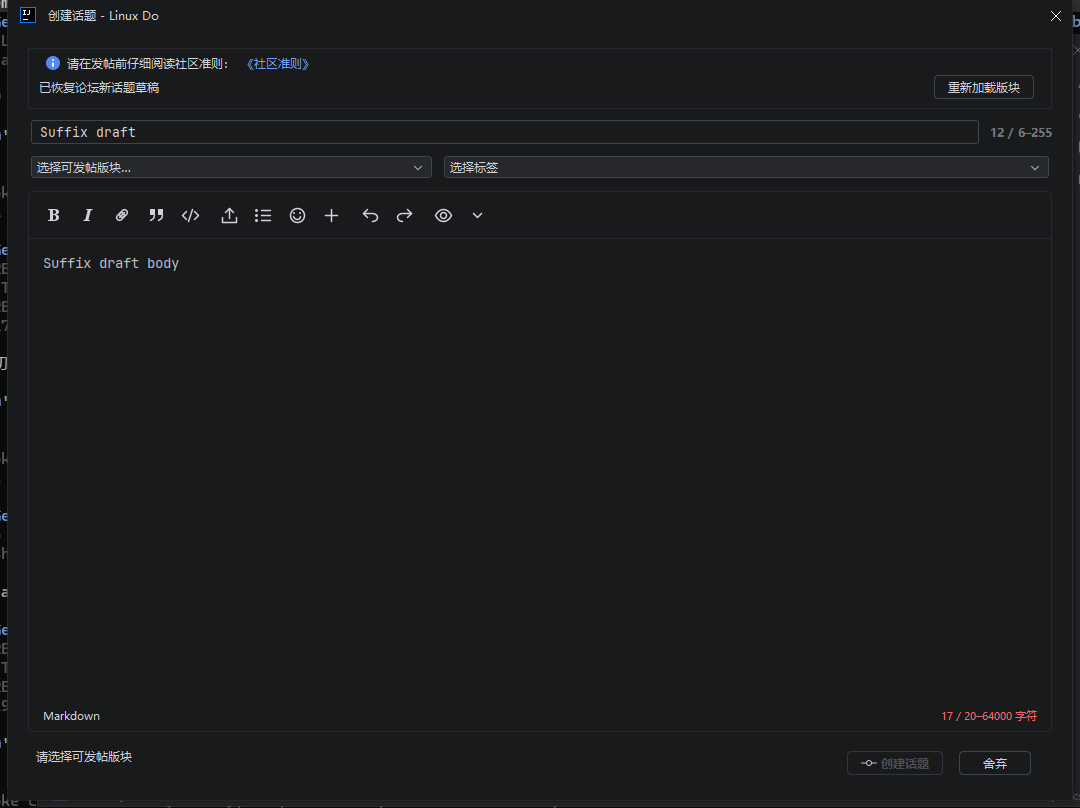
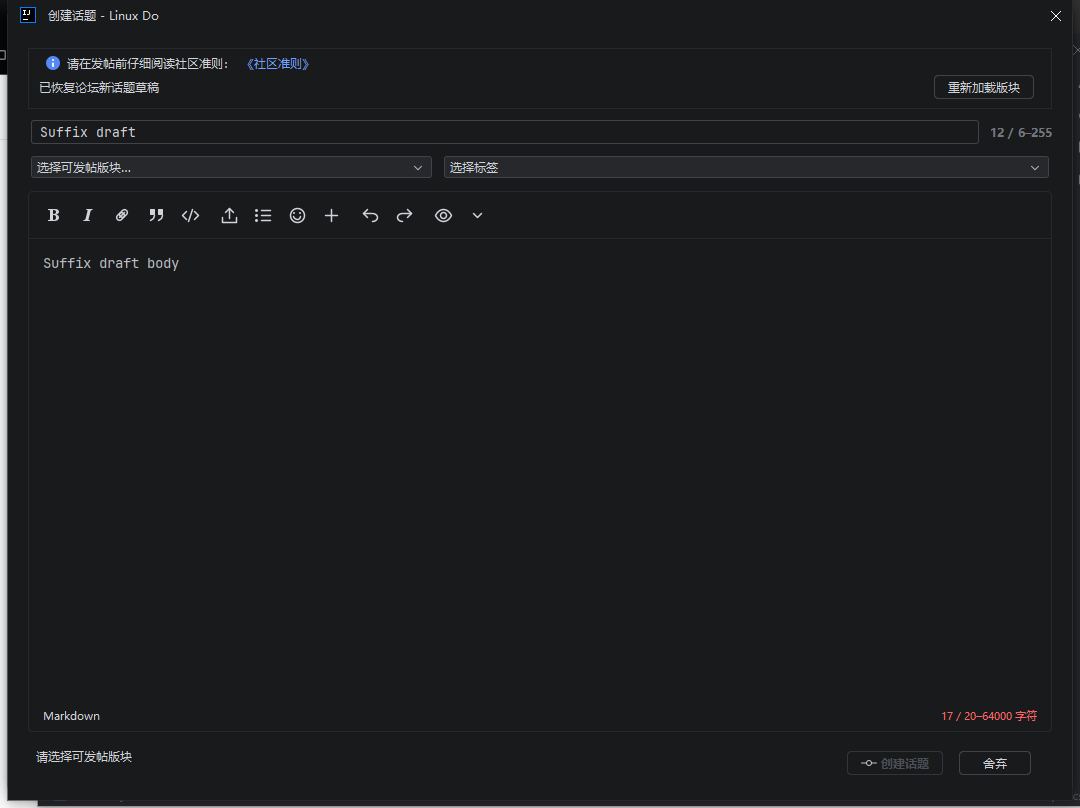
Verify native IME and require explicit post edit saving

Changed region(s): [[0.0, 0.0928, 1.0, 1.0], [0.9778, 0.0, 1.0, 0.0309], [0.0, 0.0, 0.0306, 0.0309]]

diff --git a/src/main/kotlin/com/lgguan/linuxdo/plugin/ui/dialog/EditPostDialog.kt b/src/main/kotlin/com/lgguan/linuxdo/plugin/ui/dialog/EditPostDialog.kt
@@ -39,6 +39,8 @@ internal class EditPostDialog(
     init {
         title = "编辑帖子 #${initial.postNumber}"
         setOKButtonText("保存编辑")
+        // Enter belongs to the editor and native IME; saving requires activating the button.
+        okAction.putValue(DEFAULT_ACTION, null)
         init()
         editor.resetUndo()
         ComposerAppearance.followTheme(disposable, contentPanel, text, editorPanel) { preview.refreshTheme() }

diff --git a/tools/MarkdownEditorIdeAcceptance.java b/tools/MarkdownEditorIdeAcceptance.java
@@ -219,7 +219,8 @@ public final class MarkdownEditorIdeAcceptance implements ApplicationStarter {
 
   private static void physicalKeyboard(Object dialog,String label)throws Exception {
     JTextArea text=text(dialog);Window window=((com.intellij.openapi.ui.DialogWrapper)dialog).getWindow();
-    edt(()->{window.setAlwaysOnTop(true);window.toFront();window.requestFocus();text.setText("- item");text.setCaretPosition(6);text.requestFocusInWindow();return null;});
+    edt(()->{window.setAlwaysOnTop(true);window.toFront();window.requestFocus();text.getInputContext().endComposition();text.getInputContext().selectInputMethod(Locale.US);text.enableInputMethods(false);text.setText("- item");text.setCaretPosition(6);text.requestFocusInWindow();return null;});
+    click(text);edt(()->{text.setCaretPosition(6);return null;});
     await("actual editor focus",text::hasFocus);Robot robot=new Robot();robot.setAutoDelay(60);
     robot.keyPress(java.awt.event.KeyEvent.VK_TAB);robot.keyRelease(java.awt.event.KeyEvent.VK_TAB);robot.waitForIdle();
     check(label+"_PHYSICAL_TAB_INDENT",edt(()->text.getText().equals("  - item")&&text.hasFocus()));
@@ -228,6 +229,7 @@ public final class MarkdownEditorIdeAcceptance implements ApplicationStarter {
     edt(()->{text.setText("plain");window.toFront();window.requestFocus();return null;});click(text);await("ordinary editor focus",text::hasFocus);
     robot.keyPress(java.awt.event.KeyEvent.VK_TAB);robot.keyRelease(java.awt.event.KeyEvent.VK_TAB);robot.waitForIdle();await("plain tab leaves editor",()->!text.hasFocus());
     check(label+"_ORDINARY_TAB_NAVIGATION",edt(()->text.getText().equals("plain")));
+    edt(()->{text.enableInputMethods(true);return null;});
   }
   private static void linkEditCheck(Object dialog,String label)throws Exception {
     JTextArea text=text(dialog);edt(()->{text.setText("[label](https://example.com/old)");text.setCaretPosition(3);return null;});
@@ -236,6 +238,47 @@ public final class MarkdownEditorIdeAcceptance implements ApplicationStarter {
     check(label+"_LINK_BACKFILLED",edt(()->components(window).stream().anyMatch(c->c instanceof JTextField&&"composer-link-url".equals(c.getName())&&((JTextField)c).getText().equals("https://example.com/old"))));
     edt(()->{for(Component c:components(window))if(c instanceof JTextField f&&"composer-link-url".equals(c.getName()))f.setText("https://example.com/new");components(window).stream().filter(c->c instanceof JButton&&"应用".equals(((JButton)c).getText())).map(c->(JButton)c).findFirst().orElseThrow().doClick();return null;});
     await("existing link applied",()->!window.isShowing());check(label+"_LINK_REPLACED_WITHOUT_NESTING",edt(()->text.getText().equals("[label](<https://example.com/new>)")));
+  }
+  private static void systemIme(Object dialog,String label)throws Exception {
+    JTextArea text=text(dialog);Window window=((com.intellij.openapi.ui.DialogWrapper)dialog).getWindow();
+    java.awt.im.InputContext context=edt(text::getInputContext);Locale previous=edt(context::getLocale);
+    AtomicInteger events=new AtomicInteger();int writesBefore=fixture.writes.get();
+    java.awt.event.InputMethodListener observer=new java.awt.event.InputMethodListener(){
+      public void inputMethodTextChanged(java.awt.event.InputMethodEvent e){events.incrementAndGet();}
+      public void caretPositionChanged(java.awt.event.InputMethodEvent e){}
+    };
+    edt(()->{text.addInputMethodListener(observer);window.setAlwaysOnTop(true);window.toFront();text.setText("- ");text.setCaretPosition(2);text.requestFocusInWindow();return null;});
+    await("system IME editor focus",text::hasFocus);Robot robot=new Robot();robot.setAutoDelay(100);
+    try {
+      check(label+"_SYSTEM_CHINESE_IME_SELECTED",edt(()->context.selectInputMethod(Locale.SIMPLIFIED_CHINESE)));
+      for(int attempt=0;attempt<2;attempt++){
+        if(attempt>0){edt(()->{context.endComposition();text.setText("- ");text.setCaretPosition(2);return null;});robot.keyPress(java.awt.event.KeyEvent.VK_CONTROL);robot.keyPress(java.awt.event.KeyEvent.VK_SPACE);robot.keyRelease(java.awt.event.KeyEvent.VK_SPACE);robot.keyRelease(java.awt.event.KeyEvent.VK_CONTROL);}
+        for(int code:new int[]{java.awt.event.KeyEvent.VK_N,java.awt.event.KeyEvent.VK_I,java.awt.event.KeyEvent.VK_H,java.awt.event.KeyEvent.VK_A,java.awt.event.KeyEvent.VK_O}){robot.keyPress(code);robot.keyRelease(code);}
+        robot.waitForIdle();Thread.sleep(300);
+        if(edt(()->(Boolean)field(support(dialog),"composing")))break;
+      }
+      check(label+"_SYSTEM_CANDIDATE_COMPOSITION",events.get()>0&&edt(()->(Boolean)field(support(dialog),"composing")));
+      Rectangle bounds=edt(window::getBounds);ImageIO.write(robot.createScreenCapture(bounds),"png",output.resolve("editor-"+label.toLowerCase()+"-ime.png").toFile());
+      robot.keyPress(java.awt.event.KeyEvent.VK_ENTER);robot.keyRelease(java.awt.event.KeyEvent.VK_ENTER);robot.waitForIdle();
+      await("system candidate confirmed",()->!(Boolean)field(support(dialog),"composing"));
+      check(label+"_SYSTEM_ENTER_NO_LIST_CONTINUATION",edt(()->text.getText().startsWith("- ")&&!text.getText().contains("\n")&&text.getText().length()>2));
+      check(label+"_SYSTEM_ENTER_NO_SUBMIT",edt(window::isShowing)&&fixture.writes.get()==writesBefore);
+      // Let the native WM_IME_ENDCOMPOSITION finish before starting a second candidate sequence.
+      Thread.sleep(300);
+      for(int attempt=0;attempt<2;attempt++){
+        edt(()->{context.endComposition();window.toFront();text.setText("- ");text.setCaretPosition(2);text.requestFocusInWindow();return null;});
+        await("system IME focus before Tab",text::hasFocus);
+        if(attempt>0){robot.keyPress(java.awt.event.KeyEvent.VK_CONTROL);robot.keyPress(java.awt.event.KeyEvent.VK_SPACE);robot.keyRelease(java.awt.event.KeyEvent.VK_SPACE);robot.keyRelease(java.awt.event.KeyEvent.VK_CONTROL);}
+        for(int code:new int[]{java.awt.event.KeyEvent.VK_N,java.awt.event.KeyEvent.VK_I,java.awt.event.KeyEvent.VK_H,java.awt.event.KeyEvent.VK_A,java.awt.event.KeyEvent.VK_O}){robot.keyPress(code);robot.keyRelease(code);}robot.waitForIdle();Thread.sleep(300);
+        if(edt(()->(Boolean)field(support(dialog),"composing")))break;
+      }
+      check(label+"_SYSTEM_CANDIDATE_BEFORE_TAB",edt(()->(Boolean)field(support(dialog),"composing")));
+      robot.keyPress(java.awt.event.KeyEvent.VK_TAB);robot.keyRelease(java.awt.event.KeyEvent.VK_TAB);robot.waitForIdle();
+      check(label+"_SYSTEM_TAB_NO_LIST_INDENT",edt(()->text.getText().startsWith("- ")));
+      check(label+"_SYSTEM_TAB_NO_SUBMIT",edt(window::isShowing)&&fixture.writes.get()==writesBefore);
+    } finally {
+      edt(()->{context.endComposition();text.removeInputMethodListener(observer);if(previous!=null)context.selectInputMethod(previous);return null;});
+    }
   }
   private static void dialogShot(Object dialog,String label)throws Exception {
     Window window=((com.intellij.openapi.ui.DialogWrapper)dialog).getWindow();
@@ -263,7 +306,9 @@ public final class MarkdownEditorIdeAcceptance implements ApplicationStarter {
     edt(()->{var event=new java.awt.event.InputMethodEvent(text,java.awt.event.InputMethodEvent.INPUT_METHOD_TEXT_CHANGED,null,0,null,null);for(var l:text.getInputMethodListeners())l.inputMethodTextChanged(event);text.setText(original);text.select(0,original.length());return null;});
     edt(()->{Method reset=support.getClass().getDeclaredMethod("resetUndo");reset.invoke(support);return null;});
     insertChecks(dialog);
-    physicalKeyboard(dialog,label);linkEditCheck(dialog,label);
+    physicalKeyboard(dialog,label);
+    if(Boolean.getBoolean("linuxdo.editor.system.ime"))systemIme(dialog,label);
+    linkEditCheck(dialog,label);
     edt(()->{text.setText(original);text.select(0,original.length());return null;});
     var colors=com.intellij.openapi.editor.colors.EditorColorsManager.getInstance();var previous=edt(colors::getGlobalScheme);
     var light=Arrays.stream(colors.getAllSchemes()).filter(c->!com.intellij.ui.ColorUtil.isDark(c.getDefaultBackground())).findFirst().orElseThrow();
@@ -313,7 +358,7 @@ public final class MarkdownEditorIdeAcceptance implements ApplicationStarter {
     SwingUtilities.invokeLater(()->WriteIntentReadAction.run((Runnable)()->{try{Method m=editClass.getDeclaredMethod("doOKAction");m.setAccessible(true);m.invoke(edit);}catch(Exception e){throw new RuntimeException(e);}}));
     await("edit saved",()->((com.intellij.openapi.ui.DialogWrapper)edit).isDisposed());
     check("EDIT_EXPLICIT_SAVE_PRESERVES_BASELINE_AND_REASON",fixture.writes.get()==editBefore+1&&fixture.editInput.get("original_text").getAsString().equals("Existing post body")&&fixture.editInput.get("edit_reason").getAsString().equals("fixture reason"));
-    report.println("INPUT_METHOD_CHECK=synthetic composition events delivered to actual IDEA editor; OS candidate UI not automated");
+    report.println(Boolean.getBoolean("linuxdo.editor.system.ime")?"INPUT_METHOD_CHECK=installed Windows Chinese IME; physical candidate Enter and Tab in three production dialogs":"INPUT_METHOD_CHECK=synthetic composition events delivered to actual IDEA editor; OS candidate UI not automated");
     report.println("REAL_FORUM_WRITES=0");report.println("SIMULATED_WRITES="+fixture.writes.get());
   }
 }

diff --git a/tools/smoke.py b/tools/smoke.py
@@ -143,6 +143,8 @@ def host(args):
         vm_args.append("-Dlinuxdo.reader.only=true")
     if getattr(args, "composer_only", False):
         vm_args.append("-Dlinuxdo.composer.only=true")
+    if getattr(args, "system_ime", False):
+        vm_args.append("-Dlinuxdo.editor.system.ime=true")
     if getattr(args, "draft_bridge", None):
         vm_args.append(f"-Dlinuxdo.draft.bridge={Path(args.draft_bridge).resolve()}")
     if args.native:
@@ -177,6 +179,7 @@ def main():
             sub.add_argument("--output-base", help="Short directory for isolated IDE runs, avoiding Windows path limits")
             sub.add_argument("--native", action="store_true")
         if mode == "ui":
+            sub.add_argument("--system-ime", action="store_true", help="Also verify installed Chinese input method with physical candidate-confirmation keys")
             sub.add_argument("--composer-only", action="store_true", help="Run existing browsing/composer assertions separately from reader focus checks")
             sub.add_argument("--editor-only", action="store_true", help="Exercise Markdown helpers in three production dialogs and two IDEA projects using memory HTTP")
             sub.add_argument("--personal-only", action="store_true", help="Exercise personal content in two real IDEA project frames with memory-only HTTP")

diff --git a/docs/markdown-editor-verification.md b/docs/markdown-editor-verification.md
@@ -24,7 +24,7 @@
 | 检查 | 结果与范围 |
 | --- | --- |
 | 全量测试 | 420 项通过，0 失败、0 错误、0 跳过；含本期 50 项纯文本测试与模拟传输 |
-| 新增编辑辅助原生验收 | 两个真实 IDEA 项目窗口，三类生产编辑器，70 项通过；模拟写入 3 次，真实写入 0 |
+| 新增编辑辅助原生验收 | 两个真实 IDEA 项目窗口，三类生产编辑器，91 项通过；模拟写入 3 次，真实写入 0 |
 | 原有浏览／编辑器回归 | 独立 IDEA 进程 130 项通过，涵盖上传、草稿冲突、发布结果不明及账号切换 |
 | 原有正文回归 | 独立 IDEA 进程 77 项通过，涵盖导航、通知跳转、读取计时、缩放及浏览器恢复 |
 | 个人入口原生回归 | 两个真实项目窗口 35 项通过，真实及模拟写入均为 0 |
@@ -37,7 +37,7 @@
 
 `MarkdownEditorIdeAcceptance.java` 在两个真实 Windows IDEA 项目窗口中运行三个生产编辑器，使用实际键盘检查 Tab 缩进和焦点导航，验证对话框、撤销、主题、窄窗口与模拟保存。HTTP 拦截器在进入网络前返回内存响应；所有模拟写入只存在于进程内，不调用真实论坛。
 
-输入法检查向真实 IDEA 编辑组件发送组合输入事件，验证候选阶段的辅助门禁；没有自动操作系统输入法候选窗口。macOS/Linux 原生验收仍待后续执行。
+输入法检查同时覆盖合成组合事件及 Windows 已安装的中文输入法：实际输入候选内容，按 Enter 确认和按 Tab，验证不会误续行、缩进或提交，三个窗口均保持打开。候选截图：[新话题](images/editor-helper-topic-ime.png)、[回复](images/editor-helper-reply-ime.png)、[编辑帖子](images/editor-helper-edit-ime.png)。截图期间不改变焦点。编辑帖子取消默认 Enter 保存，只有主动激活“保存编辑”按钮才提交。macOS/Linux 原生验收仍待后续执行。
 
 示例界面：[新话题](images/editor-helper-topic.png)、[回复](images/editor-helper-reply.png)、[编辑帖子](images/editor-helper-edit.png)。截图仅使用内存示例内容。
 
@@ -52,7 +52,7 @@
 ```powershell
 ./gradlew.bat test -PdesktopTests=true buildPlugin verifyPlugin --offline
 ./gradlew.bat runPluginVerifier '-PverifierIdePath=C:/Users/lgguan/AppData/Local/Programs/IntelliJ IDEA Ultimate' -PverifierOffline=true --offline
-python tools/smoke.py ui --ide-home 'C:/Users/lgguan/AppData/Local/Programs/IntelliJ IDEA Ultimate' --plugin-zip build/distributions/linuxdo-jetbrains-plugin-1.0.2.zip --editor-only --output-base D:/ld-editor-smoke
+python tools/smoke.py ui --ide-home 'C:/Users/lgguan/AppData/Local/Programs/IntelliJ IDEA Ultimate' --plugin-zip build/distributions/linuxdo-jetbrains-plugin-1.0.2.zip --editor-only --system-ime --output-base D:/ld-editor-smoke
 # 既有回归分两个隔离进程执行；分别沿用原浏览／编辑和正文断言
 python tools/smoke.py ui --ide-home 'C:/Users/lgguan/AppData/Local/Programs/IntelliJ IDEA Ultimate' --plugin-zip build/distributions/linuxdo-jetbrains-plugin-1.0.2.zip --composer-only
 python tools/smoke.py ui --ide-home 'C:/Users/lgguan/AppData/Local/Programs/IntelliJ IDEA Ultimate' --plugin-zip build/distributions/linuxdo-jetbrains-plugin-1.0.2.zip --reader-only

diff --git a/tools/README.md b/tools/README.md
@@ -52,7 +52,7 @@ Windows 示例：`python tools/smoke.py private --ide-home 'C:\path\to\WebStorm'
 
 独立 JCEF 检查需要桌面会话，Linux CI 可使用 `xvfb-run`。结果位于 `build/portable-smoke/`，成功标记为 `PORTABLE_NATIVE_PASS=true`；联网检查需各项断言通过且进程正常退出。安装包检查结果位于 `build/host-smoke/`；商业 IDE 的许可可能限制完整启动。模拟 Application 的检查不能替代安装包类加载验证，真实账号及桌面交互仍需按[跨平台指南](../docs/cross-platform.md)验收。
 
-第三期可用 `ui --editor-only` 验证三种编辑窗口的 Markdown 辅助。现有回归可分为 `--composer-only`（浏览与编辑器）和 `--reader-only`（正文与浏览器），分别运行隔离 IDE，保留原断言并减少不同窗口初始化的焦点干扰。综合探针仍保留默认入口；本期同进程初始焦点失败记录见[编辑辅助验收](../docs/markdown-editor-verification.md)。
+第三期可用 `ui --editor-only` 验证三种编辑窗口的 Markdown 辅助；Windows 加 `--system-ime`，使用已安装的中文输入法和实际按键验证候选确认不会触发格式操作或提交。现有回归可分为 `--composer-only`（浏览与编辑器）和 `--reader-only`（正文与浏览器），分别运行隔离 IDE，保留原断言并减少不同窗口初始化的焦点干扰。综合探针仍保留默认入口；本期同进程初始焦点失败记录见[编辑辅助验收](../docs/markdown-editor-verification.md)。
 
 `ui` 使用已打包插件中的话题列表、高级搜索、创建与回复窗口、定时器和正文阅读器，输出 `IDE_UI_PASS=true`、断言报告与截图；自动建立空配置，避免首次启动导入个人设置。覆盖标签组合请求、分页、键盘选择与整块鼠标点击、菜单内移除、窄窗口换行、提示状态、主题与缩放。草稿延迟、断网、409 和发送均由内存传输模拟，并记录 EDT 响应时间。工具不打入插件包。
 
